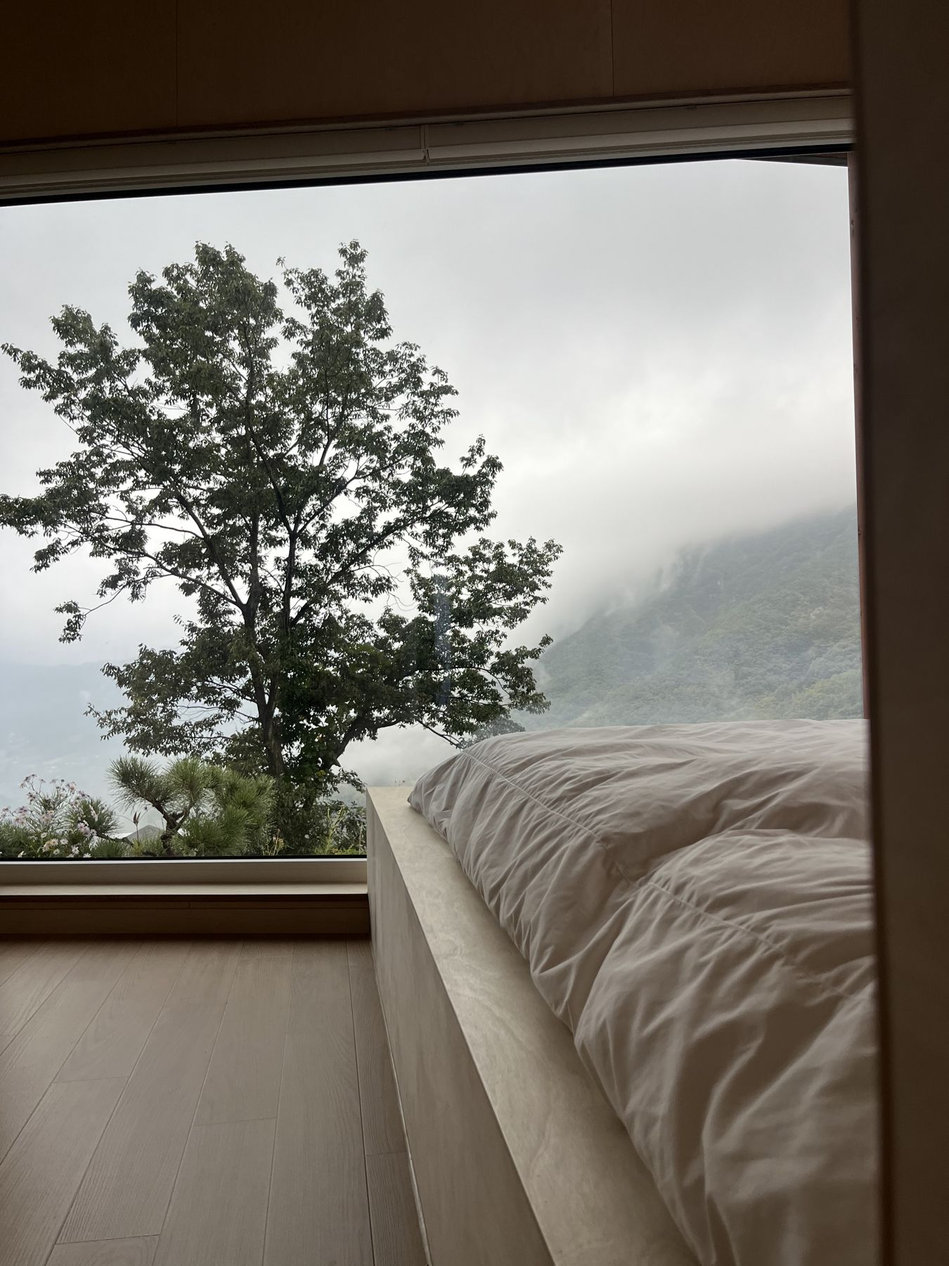
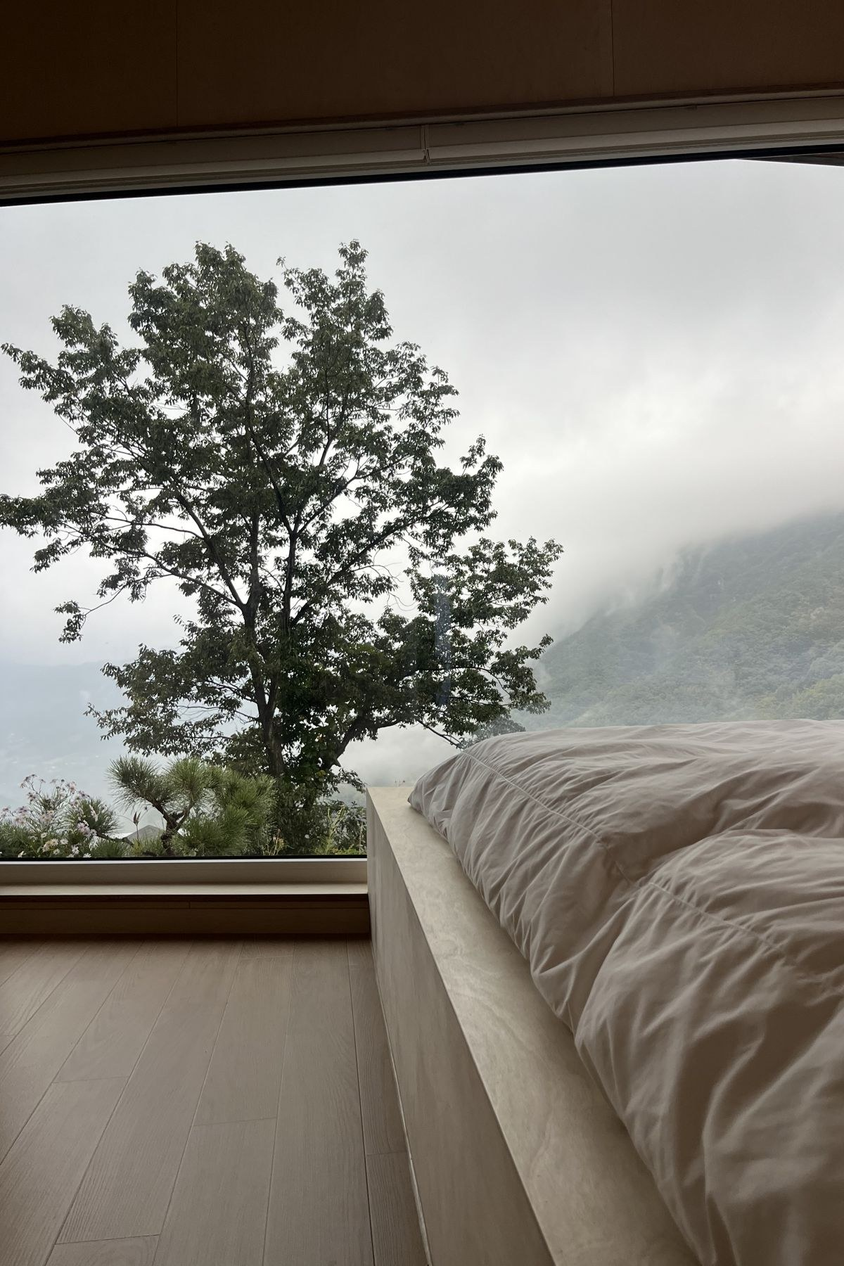
공간: 침실·주방과 식탁·욕실·테라스·처마와 데크 슬라이드, 홈 밤하늘 별 사진

diff --git a/stay.html b/stay.html
@@ -10,7 +10,7 @@
 <meta property="og:site_name" content="스테이솔숲">
 <meta property="og:title" content="공간 | 스테이솔숲">
 <meta property="og:description" content="원룸형 목조 독채, 하루 한 팀 2인 숙소. 침실에는 창이 두 개, 누워서도 산이 보입니다.">
-<meta property="og:image" content="https://staysolsoop.kr/img/stay_hero.jpg">
+<meta property="og:image" content="https://staysolsoop.kr/img/p08.jpg">
 <meta property="og:url" content="https://staysolsoop.kr/stay.html">
 <meta name="theme-color" content="#ffffff">
 <link rel="icon" href="img/favicon.svg" type="image/svg+xml">
@@ -18,7 +18,7 @@
 <link rel="preconnect" href="https://fonts.gstatic.com" crossorigin>
 <link rel="stylesheet" href="https://fonts.googleapis.com/css2?family=Noto+Serif+KR:wght@500&amp;display=swap">
 <link rel="stylesheet" href="https://cdn.jsdelivr.net/gh/orioncactus/pretendard@v1.3.9/dist/web/variable/pretendardvariable-dynamic-subset.min.css">
-<link rel="stylesheet" href="style.css?v=43b16156">
+<link rel="stylesheet" href="style.css?v=0304ce6e">
 
 </head>
 <body>
@@ -40,10 +40,10 @@
   </div>
 </div>
 <main class="flow">
-<figure class="hero"><img src="img/stay_hero.jpg" alt="창가 식탁과 침대, 통창 너머 산이 보이는 스테이솔숲 실내" width="2800" height="1866" fetchpriority="high"></figure>
+<figure class="hero"><img src="img/p08.jpg" alt="스테이솔숲 실내 전경" width="1800" height="1200" fetchpriority="high"></figure>
 <section class="col title"><p class="eyebrow">STAY</p><h1>공간</h1><p class="sub">하루 한 팀 · 2인 숙소</p></section>
 <section class="col poem"><p>한 팀만 머뭅니다.<br>두 분까지, 혼자 오셔도 됩니다.</p><p>침실에는 창이 두 개 있습니다.<br>누워서도 산이 보입니다.</p></section>
-<section class="strip"><figure class="ph ph-l"><div class="ph-box" style="aspect-ratio:3 / 2"><img src="img/st_bedsun.jpg" alt="햇살 드는 침대와 두 개의 창" width="2400" height="1600" loading="lazy" decoding="async"></div></figure><figure class="ph ph-m"><div class="ph-box" style="aspect-ratio:3 / 4"><img src="img/st_bedtable.jpg" alt="식탁 너머 침대" width="1600" height="2400" loading="lazy" decoding="async"></div></figure><figure class="ph ph-m"><div class="ph-box" style="aspect-ratio:3 / 4"><img src="img/bedfog.jpg" alt="운무 낀 창가 침대" width="1350" height="1800" loading="lazy" decoding="async"></div></figure><figure class="ph ph-l"><div class="ph-box" style="aspect-ratio:3 / 2"><img src="img/st_kitchen.jpg" alt="주방" width="2400" height="1600" loading="lazy" decoding="async"></div></figure><figure class="ph ph-m"><div class="ph-box" style="aspect-ratio:3 / 4"><img src="img/st_kitchenway.jpg" alt="주방에서 전실로 이어지는 길" width="1600" height="2400" loading="lazy" decoding="async"></div></figure><figure class="ph ph-s"><div class="ph-box" style="aspect-ratio:4 / 5"><img src="img/st_desk.jpg" alt="책상" width="1600" height="2400" loading="lazy" decoding="async"></div></figure><figure class="ph ph-l"><div class="ph-box" style="aspect-ratio:3 / 2"><img src="img/st_bath.jpg" alt="욕실" width="2400" height="1600" loading="lazy" decoding="async"></div></figure><figure class="ph ph-m"><div class="ph-box" style="aspect-ratio:4 / 3"><img src="img/st_basin.jpg" alt="세면대" width="2400" height="1600" loading="lazy" decoding="async"></div></figure><figure class="ph ph-s"><div class="ph-box" style="aspect-ratio:4 / 5"><img src="img/st_shower.jpg" alt="샤워" width="1600" height="2400" loading="lazy" decoding="async"></div></figure><figure class="ph ph-l"><div class="ph-box" style="aspect-ratio:3 / 2"><img src="img/st_jeonsil.jpg" alt="전실" width="2400" height="1600" loading="lazy" decoding="async"></div></figure><figure class="ph ph-s"><div class="ph-box" style="aspect-ratio:4 / 5"><img src="img/st_jeonsilchair.jpg" alt="전실 한쪽 의자와 화분" width="1600" height="2400" loading="lazy" decoding="async"></div></figure><figure class="ph ph-m"><div class="ph-box" style="aspect-ratio:4 / 3"><img src="img/st_lantern.jpg" alt="전실 선반의 랜턴과 책" width="2400" height="1600" loading="lazy" decoding="async"></div></figure><figure class="ph ph-l"><div class="ph-box" style="aspect-ratio:3 / 2"><img src="img/st_deck.jpg" alt="처마 아래 데크" width="2400" height="1600" loading="lazy" decoding="async"></div></figure><figure class="ph ph-m"><div class="ph-box" style="aspect-ratio:3 / 4"><img src="img/st_eaves.jpg" alt="긴 처마와 데크" width="1600" height="2400" loading="lazy" decoding="async"></div></figure><figure class="ph ph-l"><div class="ph-box" style="aspect-ratio:3 / 2"><img src="img/st_screen.jpg" alt="전실 망사문 너머 산과 데크" width="2400" height="1600" loading="lazy" decoding="async"></div></figure><figure class="ph ph-l"><div class="ph-box" style="aspect-ratio:3 / 2"><img src="img/st_evening.jpg" alt="저녁에 불 켜진 독채" width="2400" height="1600" loading="lazy" decoding="async"></div></figure><figure class="ph ph-m"><div class="ph-box" style="aspect-ratio:3 / 4"><img src="img/st_stars.jpg" alt="별이 뜬 밤의 독채" width="1600" height="2400" loading="lazy" decoding="async"></div></figure><figure class="ph ph-l"><div class="ph-box" style="aspect-ratio:3 / 2"><img src="img/st_bednight.jpg" alt="밤, 침대 창밖 마을 불빛" width="2400" height="1600" loading="lazy" decoding="async"></div></figure></section>
+<section class="strip"><figure class="gallery"><div class="gl-track" tabindex="0" aria-label="침실 사진" style="aspect-ratio:3 / 2"><div class="gl-slide"><img src="img/st_bedsun.jpg" alt="햇살 드는 침대와 두 개의 창" width="2400" height="1600" loading="lazy" decoding="async"></div><div class="gl-slide"><img src="img/st_bedtable.jpg" alt="식탁 너머 침대" width="1600" height="2400" loading="lazy" decoding="async"></div><div class="gl-slide"><img src="img/bedfog.jpg" alt="운무 낀 창가 침대" width="1200" height="1800" loading="lazy" decoding="async"></div><div class="gl-slide"><img src="img/st_desk.jpg" alt="침실 안쪽 책상" width="2400" height="1600" loading="lazy" decoding="async"></div><div class="gl-slide"><img src="img/st_bednight.jpg" alt="밤, 침대 창밖 마을 불빛" width="2400" height="1600" loading="lazy" decoding="async"></div></div><figcaption>침실</figcaption><div class="gl-thumbs"><button type="button" class="gl-thumb" aria-label="햇살 드는 침대와 두 개의 창"><img src="img/st_bedsun.jpg" alt="" loading="lazy" decoding="async"></button><button type="button" class="gl-thumb" aria-label="식탁 너머 침대"><img src="img/st_bedtable.jpg" alt="" loading="lazy" decoding="async"></button><button type="button" class="gl-thumb" aria-label="운무 낀 창가 침대"><img src="img/bedfog.jpg" alt="" loading="lazy" decoding="async"></button><button type="button" class="gl-thumb" aria-label="침실 안쪽 책상"><img src="img/st_desk.jpg" alt="" loading="lazy" decoding="async"></button><button type="button" class="gl-thumb" aria-label="밤, 침대 창밖 마을 불빛"><img src="img/st_bednight.jpg" alt="" loading="lazy" decoding="async"></button></div></figure><figure class="gallery"><div class="gl-track" tabindex="0" aria-label="주방과 식탁 사진" style="aspect-ratio:3 / 2"><div class="gl-slide"><img src="img/st_table.jpg" alt="창가 식탁과 침대, 통창 너머 산" width="2800" height="1866" loading="lazy" decoding="async"></div><div class="gl-slide"><img src="img/st_tablefog.jpg" alt="운무 낀 산 앞 창가 식탁" width="1800" height="2400" loading="lazy" decoding="async"></div><div class="gl-slide"><img src="img/st_kitchen.jpg" alt="주방" width="2400" height="1600" loading="lazy" decoding="async"></div><div class="gl-slide"><img src="img/st_fridge.jpg" alt="주방 냉장고와 전자레인지" width="1800" height="2400" loading="lazy" decoding="async"></div><div class="gl-slide"><img src="img/st_kitchendoor.jpg" alt="주방 옆 테라스로 나가는 문" width="2400" height="1600" loading="lazy" decoding="async"></div><div class="gl-slide"><img src="img/st_kitchengarden.jpg" alt="주방과 통창 너머 정원" width="2400" height="1600" loading="lazy" decoding="async"></div><div class="gl-slide"><img src="img/st_dripper.jpg" alt="드리퍼와 컵이 놓인 선반" width="2400" height="1600" loading="lazy" decoding="async"></div></div><figcaption>주방과 식탁</figcaption><div class="gl-thumbs"><button type="button" class="gl-thumb" aria-label="창가 식탁과 침대, 통창 너머 산"><img src="img/st_table.jpg" alt="" loading="lazy" decoding="async"></button><button type="button" class="gl-thumb" aria-label="운무 낀 산 앞 창가 식탁"><img src="img/st_tablefog.jpg" alt="" loading="lazy" decoding="async"></button><button type="button" class="gl-thumb" aria-label="주방"><img src="img/st_kitchen.jpg" alt="" loading="lazy" decoding="async"></button><button type="button" class="gl-thumb" aria-label="주방 냉장고와 전자레인지"><img src="img/st_fridge.jpg" alt="" loading="lazy" decoding="async"></button><button type="button" class="gl-thumb" aria-label="주방 옆 테라스로 나가는 문"><img src="img/st_kitchendoor.jpg" alt="" loading="lazy" decoding="async"></button><button type="button" class="gl-thumb" aria-label="주방과 통창 너머 정원"><img src="img/st_kitchengarden.jpg" alt="" loading="lazy" decoding="async"></button><button type="button" class="gl-thumb" aria-label="드리퍼와 컵이 놓인 선반"><img src="img/st_dripper.jpg" alt="" loading="lazy" decoding="async"></button></div></figure><figure class="gallery gallery-tall"><div class="gl-track" tabindex="0" aria-label="욕실 사진" style="aspect-ratio:4 / 5"><div class="gl-slide"><img src="img/st_bathlong.jpg" alt="욕실 안쪽, 세면대와 샤워 칸" width="1600" height="2400" loading="lazy" decoding="async"></div><div class="gl-slide"><img src="img/st_bathdoor.jpg" alt="욕실 문과 세면대" width="1600" height="2400" loading="lazy" decoding="async"></div><div class="gl-slide"><img src="img/st_basin.jpg" alt="세면대와 큰 거울" width="1920" height="2399" loading="lazy" decoding="async"></div><div class="gl-slide"><img src="img/st_shower.jpg" alt="샤워" width="1600" height="2400" loading="lazy" decoding="async"></div><div class="gl-slide"><img src="img/st_soap.jpg" alt="세면대 옆 핸드워시" width="1920" height="2400" loading="lazy" decoding="async"></div><div class="gl-slide"><img src="img/st_dryer.jpg" alt="드라이어" width="1920" height="2400" loading="lazy" decoding="async"></div><div class="gl-slide"><img src="img/st_shampoo.jpg" alt="샤워 칸 샴푸와 바디워시" width="1920" height="2400" loading="lazy" decoding="async"></div></div><figcaption>욕실</figcaption><div class="gl-thumbs"><button type="button" class="gl-thumb" aria-label="욕실 안쪽, 세면대와 샤워 칸"><img src="img/st_bathlong.jpg" alt="" loading="lazy" decoding="async"></button><button type="button" class="gl-thumb" aria-label="욕실 문과 세면대"><img src="img/st_bathdoor.jpg" alt="" loading="lazy" decoding="async"></button><button type="button" class="gl-thumb" aria-label="세면대와 큰 거울"><img src="img/st_basin.jpg" alt="" loading="lazy" decoding="async"></button><button type="button" class="gl-thumb" aria-label="샤워"><img src="img/st_shower.jpg" alt="" loading="lazy" decoding="async"></button><button type="button" class="gl-thumb" aria-label="세면대 옆 핸드워시"><img src="img/st_soap.jpg" alt="" loading="lazy" decoding="async"></button><button type="button" class="gl-thumb" aria-label="드라이어"><img src="img/st_dryer.jpg" alt="" loading="lazy" decoding="async"></button><button type="button" class="gl-thumb" aria-label="샤워 칸 샴푸와 바디워시"><img src="img/st_shampoo.jpg" alt="" loading="lazy" decoding="async"></button></div></figure><figure class="gallery"><div class="gl-track" tabindex="0" aria-label="테라스 사진" style="aspect-ratio:3 / 2"><div class="gl-slide"><img src="img/st_jeonsil.jpg" alt="테라스" width="2400" height="1600" loading="lazy" decoding="async"></div><div class="gl-slide"><img src="img/st_terracesun.jpg" alt="햇살 드는 테라스 책상" width="2400" height="1600" loading="lazy" decoding="async"></div><div class="gl-slide"><img src="img/st_jeonsilchair.jpg" alt="테라스 한쪽 의자와 화분" width="1600" height="2400" loading="lazy" decoding="async"></div><div class="gl-slide"><img src="img/st_lantern.jpg" alt="테라스 선반의 랜턴과 책" width="2400" height="1600" loading="lazy" decoding="async"></div><div class="gl-slide"><img src="img/st_screen.jpg" alt="테라스 망사문 너머 산과 데크" width="2400" height="1600" loading="lazy" decoding="async"></div></div><figcaption>테라스</figcaption><div class="gl-thumbs"><button type="button" class="gl-thumb" aria-label="테라스"><img src="img/st_jeonsil.jpg" alt="" loading="lazy" decoding="async"></button><button type="button" class="gl-thumb" aria-label="햇살 드는 테라스 책상"><img src="img/st_terracesun.jpg" alt="" loading="lazy" decoding="async"></button><button type="button" class="gl-thumb" aria-label="테라스 한쪽 의자와 화분"><img src="img/st_jeonsilchair.jpg" alt="" loading="lazy" decoding="async"></button><button type="button" class="gl-thumb" aria-label="테라스 선반의 랜턴과 책"><img src="img/st_lantern.jpg" alt="" loading="lazy" decoding="async"></button><button type="button" class="gl-thumb" aria-label="테라스 망사문 너머 산과 데크"><img src="img/st_screen.jpg" alt="" loading="lazy" decoding="async"></button></div></figure><figure class="gallery gallery-tall"><div class="gl-track" tabindex="0" aria-label="처마와 데크 사진" style="aspect-ratio:4 / 5"><div class="gl-slide"><img src="img/st_eaves.jpg" alt="긴 처마와 데크" width="1920" height="2400" loading="lazy" decoding="async"></div><div class="gl-slide"><img src="img/st_decktable.jpg" alt="데크 위 테이블과 산" width="1920" height="2400" loading="lazy" decoding="async"></div><div class="gl-slide"><img src="img/st_decksun.jpg" alt="데크 끝에서 본 해와 능선" width="1920" height="2400" loading="lazy" decoding="async"></div><div class="gl-slide"><img src="img/st_rafter.jpg" alt="파란 하늘 아래 처마 끝과 산" width="1920" height="2400" loading="lazy" decoding="async"></div><div class="gl-slide"><img src="img/st_rafter83.jpg" alt="처마 아래 서까래와 창" width="1920" height="2400" loading="lazy" decoding="async"></div><div class="gl-slide"><img src="img/st_stars.jpg" alt="별이 뜬 밤의 독채" width="1920" height="2400" loading="lazy" decoding="async"></div></div><figcaption>처마와 데크</figcaption><div class="gl-thumbs"><button type="button" class="gl-thumb" aria-label="긴 처마와 데크"><img src="img/st_eaves.jpg" alt="" loading="lazy" decoding="async"></button><button type="button" class="gl-thumb" aria-label="데크 위 테이블과 산"><img src="img/st_decktable.jpg" alt="" loading="lazy" decoding="async"></button><button type="button" class="gl-thumb" aria-label="데크 끝에서 본 해와 능선"><img src="img/st_decksun.jpg" alt="" loading="lazy" decoding="async"></button><button type="button" class="gl-thumb" aria-label="파란 하늘 아래 처마 끝과 산"><img src="img/st_rafter.jpg" alt="" loading="lazy" decoding="async"></button><button type="button" class="gl-thumb" aria-label="처마 아래 서까래와 창"><img src="img/st_rafter83.jpg" alt="" loading="lazy" decoding="async"></button><button type="button" class="gl-thumb" aria-label="별이 뜬 밤의 독채"><img src="img/st_stars.jpg" alt="" loading="lazy" decoding="async"></button></div></figure></section>
 <section class="col stay-info">
   <dl class="specs"><div><dt>독채</dt><dd>원룸형 목조 독채</dd></div><div><dt>인원</dt><dd>하루 한 팀 · 2인</dd></div><div><dt>침대</dt><dd>퀸사이즈 1개</dd></div><div><dt>욕실</dt><dd>샤워</dd></div><div><dt>주방</dt><dd>냉장고 · 전자레인지 · 전기드립포트 · 토스터 · 인덕션</dd></div><div><dt>냉난방</dt><dd>에어컨 · 전기온돌</dd></div><div><dt>그 밖에</dt><dd>와이파이 · 블루투스 스피커 · 마당 주차 1대</dd></div><div><dt>바비큐</dt><dd>처마 밑 웨버 가스그릴 (3~10월, 테라스 불가)</dd></div></dl>
   <ul class="notes"><li>욕조는 없습니다.</li><li>오븐과 가스레인지는 없습니다.</li><li>실내 흡연은 절대 불가입니다.</li></ul>
@@ -67,6 +67,6 @@
     </div>
   </div>
 </footer>
-<script src="main.js?v=21d0762d" defer></script>
+<script src="main.js?v=939180eb" defer></script>
 </body>
 </html>

diff --git a/index.html b/index.html
@@ -18,7 +18,7 @@
 <link rel="preconnect" href="https://fonts.gstatic.com" crossorigin>
 <link rel="stylesheet" href="https://fonts.googleapis.com/css2?family=Noto+Serif+KR:wght@500&amp;display=swap">
 <link rel="stylesheet" href="https://cdn.jsdelivr.net/gh/orioncactus/pretendard@v1.3.9/dist/web/variable/pretendardvariable-dynamic-subset.min.css">
-<link rel="stylesheet" href="style.css?v=43b16156">
+<link rel="stylesheet" href="style.css?v=0304ce6e">
 <script type="application/ld+json">{"@context": "https://schema.org", "@type": "LodgingBusiness", "name": "스테이솔숲", "alternateName": "stay.solsoop", "url": "https://staysolsoop.kr/", "image": "https://staysolsoop.kr/img/p01.jpg", "description": "산청 지리산뷰 소나무숲 독채, 스테이솔숲. 하루 한 팀만 머뭅니다.", "address": {"@type": "PostalAddress", "streetAddress": "신안면 둔철산로 393-24", "addressLocality": "산청군", "addressRegion": "경상남도", "postalCode": "52262", "addressCountry": "KR"}, "geo": {"@type": "GeoCoordinates", "latitude": 35.3699, "longitude": 127.951}, "telephone": "+82-10-3314-0079", "priceRange": "₩200,000~₩280,000", "currenciesAccepted": "KRW", "checkinTime": "15:30", "checkoutTime": "11:30", "petsAllowed": true, "numberOfRooms": 1, "amenityFeature": [{"@type": "LocationFeatureSpecification", "name": "독채", "value": true}, {"@type": "LocationFeatureSpecification", "name": "셀프 조식", "value": true}, {"@type": "LocationFeatureSpecification", "name": "와이파이", "value": true}, {"@type": "LocationFeatureSpecification", "name": "무료 주차", "value": true}, {"@type": "LocationFeatureSpecification", "name": "에어컨", "value": true}, {"@type": "LocationFeatureSpecification", "name": "전기온돌", "value": true}, {"@type": "LocationFeatureSpecification", "name": "주방", "value": true}, {"@type": "LocationFeatureSpecification", "name": "지리산 전망", "value": true}], "sameAs": ["https://www.instagram.com/stay.solsoop/", "https://blog.naver.com/staysolsoop", "https://map.naver.com/p/entry/place/2012466722", "https://www.facebook.com/stay.solsoop/", "https://www.threads.com/@stay.solsoop"]}</script>
 </head>
 <body>
@@ -45,7 +45,7 @@
   <h1>산청 지리산뷰<br>소나무숲 독채</h1>
   <div class="poem"><p>경남 산청 둔철산 자락,<br>소나무를 비켜 지은<br>독채 민박 한 동.</p><p>큰 창 앞에 앉으면<br>지리산 능선이 겹겹이 보입니다.</p><p>하루 한 팀만 머뭅니다.</p></div>
 </section>
-<figure class="ph ph-l"><div class="ph-box" style="aspect-ratio:16 / 10"><img src="img/clear.jpg" alt="맑은 날 둔철산 자락에서 본 산청 골짜기와 능선" width="1800" height="1134" loading="lazy" decoding="async" style="object-position:50% 60%"></div><figcaption>맑은 날</figcaption></figure><figure class="ph ph-m"><div class="ph-box" style="aspect-ratio:4 / 3"><img src="img/fogsea.jpg" alt="골짜기를 채운 아침 운무" width="1800" height="1728" loading="lazy" decoding="async" style="object-position:50% 100%"></div><figcaption>아침 운무</figcaption></figure><figure class="ph ph-l"><div class="ph-box" style="aspect-ratio:3 / 2"><img src="img/sunset2.jpg" alt="능선 위 저녁 노을과 나무 실루엣" width="1800" height="1255" loading="lazy" decoding="async" style="object-position:50% 70%"></div><figcaption>저녁 노을</figcaption></figure><figure class="ph ph-s"><div class="ph-box" style="aspect-ratio:4 / 5"><img src="img/moon.jpg" alt="구름 사이 달과 산청 마을 불빛" width="1688" height="1800" loading="lazy" decoding="async" style="object-position:20% 50%"></div><figcaption>밤하늘</figcaption></figure>
+<figure class="ph ph-l"><div class="ph-box" style="aspect-ratio:16 / 10"><img src="img/clear.jpg" alt="맑은 날 둔철산 자락에서 본 산청 골짜기와 능선" width="1800" height="1134" loading="lazy" decoding="async" style="object-position:50% 60%"></div><figcaption>맑은 날</figcaption></figure><figure class="ph ph-m"><div class="ph-box" style="aspect-ratio:4 / 3"><img src="img/fogsea.jpg" alt="골짜기를 채운 아침 운무" width="1800" height="1728" loading="lazy" decoding="async" style="object-position:50% 100%"></div><figcaption>아침 운무</figcaption></figure><figure class="ph ph-l"><div class="ph-box" style="aspect-ratio:3 / 2"><img src="img/sunset2.jpg" alt="능선 위 저녁 노을과 나무 실루엣" width="1800" height="1255" loading="lazy" decoding="async" style="object-position:50% 70%"></div><figcaption>저녁 노을</figcaption></figure><figure class="ph ph-m"><div class="ph-box" style="aspect-ratio:3 / 2"><img src="img/stars.jpg" alt="나무 위로 쏟아지는 별" width="2400" height="1600" loading="lazy" decoding="async" style="object-position:50% 40%"></div><figcaption>밤하늘</figcaption></figure>
 <section class="col chapter theme">
   <h2>같은 자리에서<br>매번 다른 산을 봅니다.</h2>
   <a class="more" href="story.html">이야기 보기 →</a>
@@ -68,6 +68,6 @@
     </div>
   </div>
 </footer>
-<script src="main.js?v=21d0762d" defer></script>
+<script src="main.js?v=939180eb" defer></script>
 </body>
 </html>

diff --git a/style.css b/style.css
@@ -229,3 +229,18 @@ a:focus-visible, button:focus-visible, input:focus-visible { outline: 2px solid 
 .ft-sign { display: flex; align-items: center; gap: 10px; }
 .ft-sign img { width: 44px; height: 44px; object-fit: contain; }
 .ft-sign p { font-size: 12px; line-height: 1.5; }
+
+/* 공간 슬라이드(11-18): 밀어서 넘기고, 아래 작은 사진을 누르면 이동 */
+.gallery { width: 100%; max-width: 1200px; display: flex; flex-direction: column; align-items: center; gap: 10px; }
+.gl-track { width: 100%; aspect-ratio: 3 / 2; display: flex; overflow-x: auto; scroll-snap-type: x mandatory; scroll-behavior: smooth; scrollbar-width: none; background: var(--line); }
+.gl-track::-webkit-scrollbar { display: none; }
+.gl-slide { flex: 0 0 100%; scroll-snap-align: center; }
+.gl-slide img { width: 100%; height: 100%; object-fit: cover; display: block; }
+.gallery figcaption { font-family: var(--serif); font-size: 13px; color: var(--ink); }
+.gl-thumbs { display: flex; gap: 6px; flex-wrap: wrap; justify-content: center; padding: 0 16px; }
+.gl-thumb { width: 56px; height: 40px; padding: 0; border: 0; background: none; cursor: pointer; opacity: .45; transition: opacity .2s; }
+.gl-thumb img { width: 100%; height: 100%; object-fit: cover; display: block; }
+.gl-thumb.on, .gl-thumb:hover { opacity: 1; }
+@media (prefers-reduced-motion: reduce) { .gl-track { scroll-behavior: auto; } }
+.strip:has(.gallery) { gap: clamp(40px, 6vw, 72px); }
+.gallery-tall { max-width: 560px; }

diff --git a/main.js b/main.js
@@ -127,3 +127,20 @@
   addEventListener('resize', () => { clearTimeout(tm); tm = setTimeout(run, 150); });
   addEventListener('click', () => setTimeout(wrap, 60));   // 탭·접기 열린 뒤
 })();
+
+// 공간 슬라이드: 작은 사진 누르면 이동, 지금 사진 표시, 화면에 보일 때만 6초마다 자동으로 넘김(손대면 멈춤)
+(() => {
+  const still = matchMedia('(prefers-reduced-motion: reduce)').matches;
+  document.querySelectorAll('.gallery').forEach(g => {
+    const tr = g.querySelector('.gl-track'), th = [...g.querySelectorAll('.gl-thumb')], n = th.length;
+    let cur = 0, auto = !still, seen = false;
+    const go = i => { cur = (i + n) % n; tr.scrollTo({ left: cur * tr.clientWidth }); };
+    const mark = () => { cur = Math.round(tr.scrollLeft / tr.clientWidth); th.forEach((b, i) => b.classList.toggle('on', i === cur)); };
+    th.forEach((b, i) => b.addEventListener('click', () => { auto = false; go(i); }));
+    tr.addEventListener('scroll', () => requestAnimationFrame(mark), { passive: true });
+    ['pointerdown', 'wheel', 'keydown'].forEach(ev => tr.addEventListener(ev, () => { auto = false; }, { passive: true }));
+    new IntersectionObserver(es => { seen = es[0].isIntersecting; }, { threshold: .6 }).observe(tr);
+    mark();
+    if (n > 1) setInterval(() => { if (auto && seen && !document.hidden) go(cur + 1); }, 6000);
+  });
+})();

diff --git a/around.html b/around.html
@@ -18,7 +18,7 @@
 <link rel="preconnect" href="https://fonts.gstatic.com" crossorigin>
 <link rel="stylesheet" href="https://fonts.googleapis.com/css2?family=Noto+Serif+KR:wght@500&amp;display=swap">
 <link rel="stylesheet" href="https://cdn.jsdelivr.net/gh/orioncactus/pretendard@v1.3.9/dist/web/variable/pretendardvariable-dynamic-subset.min.css">
-<link rel="stylesheet" href="style.css?v=43b16156">
+<link rel="stylesheet" href="style.css?v=0304ce6e">
 
 </head>
 <body>
@@ -61,6 +61,6 @@
     </div>
   </div>
 </footer>
-<script src="main.js?v=21d0762d" defer></script>
+<script src="main.js?v=939180eb" defer></script>
 </body>
 </html>

diff --git a/guide.html b/guide.html
@@ -18,7 +18,7 @@
 <link rel="preconnect" href="https://fonts.gstatic.com" crossorigin>
 <link rel="stylesheet" href="https://fonts.googleapis.com/css2?family=Noto+Serif+KR:wght@500&amp;display=swap">
 <link rel="stylesheet" href="https://cdn.jsdelivr.net/gh/orioncactus/pretendard@v1.3.9/dist/web/variable/pretendardvariable-dynamic-subset.min.css">
-<link rel="stylesheet" href="style.css?v=43b16156">
+<link rel="stylesheet" href="style.css?v=0304ce6e">
 
 </head>
 <body>
@@ -69,6 +69,6 @@
     </div>
   </div>
 </footer>
-<script src="main.js?v=21d0762d" defer></script>
+<script src="main.js?v=939180eb" defer></script>
 </body>
 </html>

diff --git a/location.html b/location.html
@@ -18,7 +18,7 @@
 <link rel="preconnect" href="https://fonts.gstatic.com" crossorigin>
 <link rel="stylesheet" href="https://fonts.googleapis.com/css2?family=Noto+Serif+KR:wght@500&amp;display=swap">
 <link rel="stylesheet" href="https://cdn.jsdelivr.net/gh/orioncactus/pretendard@v1.3.9/dist/web/variable/pretendardvariable-dynamic-subset.min.css">
-<link rel="stylesheet" href="style.css?v=43b16156">
+<link rel="stylesheet" href="style.css?v=0304ce6e">
 
 </head>
 <body>
@@ -67,6 +67,6 @@
     </div>
   </div>
 </footer>
-<script src="main.js?v=21d0762d" defer></script>
+<script src="main.js?v=939180eb" defer></script>
 </body>
 </html>

diff --git a/story.html b/story.html
@@ -18,7 +18,7 @@
 <link rel="preconnect" href="https://fonts.gstatic.com" crossorigin>
 <link rel="stylesheet" href="https://fonts.googleapis.com/css2?family=Noto+Serif+KR:wght@500&amp;display=swap">
 <link rel="stylesheet" href="https://cdn.jsdelivr.net/gh/orioncactus/pretendard@v1.3.9/dist/web/variable/pretendardvariable-dynamic-subset.min.css">
-<link rel="stylesheet" href="style.css?v=43b16156">
+<link rel="stylesheet" href="style.css?v=0304ce6e">
 
 </head>
 <body>
@@ -71,6 +71,6 @@
     </div>
   </div>
 </footer>
-<script src="main.js?v=21d0762d" defer></script>
+<script src="main.js?v=939180eb" defer></script>
 </body>
 </html>
